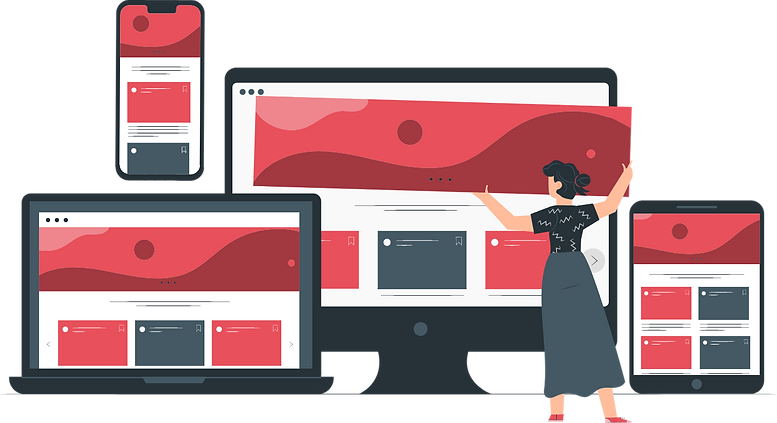
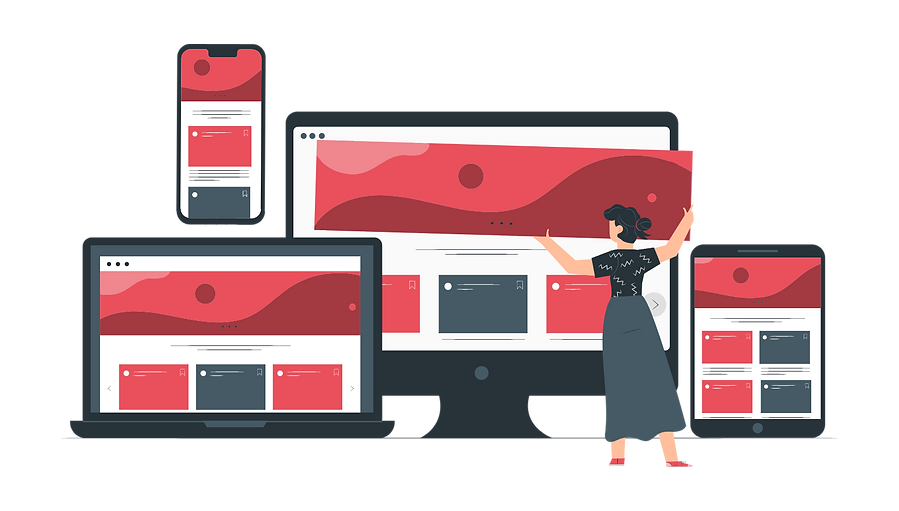
refactor: Updated Web Programming service page with full images and info

diff --git a/front/reyesandfriends.cl/src/pages/services/WebProgramming/WebProgramming.tsx b/front/reyesandfriends.cl/src/pages/services/WebProgramming/WebProgramming.tsx
@@ -1,4 +1,4 @@
-import { Globe, Gem } from "lucide-react";
+import { Globe, Gem, Ban, Download } from "lucide-react";
 import { Link } from "react-router";
 
 const WebProgramming = () => {
@@ -21,7 +21,6 @@ const WebProgramming = () => {
                             src="/img/services/WebProgramming/logo.png"
                             alt="Programación Web"
                             className="max-w-full h-auto"
-                            style={{ filter: "drop-shadow(0 8px 24px rgba(0,0,0,0.5))" }}
                         />
                     </div>
                     <div className="max-w-2xl text-white mx-auto md:mx-0 md:pl-12 lg:pl-24 flex flex-col items-center md:items-start">
@@ -56,7 +55,7 @@ const WebProgramming = () => {
                             <div className="md:w-1/2 w-full flex items-center justify-center">
                                 <img
                                     src="/img/services/WebProgramming/responsive.png"
-                                    alt="Desarrollo Responsive"
+                                    alt="Ilustración de diseño responsivo"
                                     className="max-h-[350px] w-auto object-contain"
                                 />
                             </div>
@@ -80,21 +79,21 @@ const WebProgramming = () => {
                                 </p>
                             </div>
 
-                            <div className="md:w-1/2 w-full flex">
-                                <img
-                                    src="/img/services/WebProgramming/responsive-demo.jpg"
-                                    alt="Desarrollo Responsive"
-                                    className="object-cover w-full h-full min-h-[260px] max-h-[340px]"
-                                />
+                            <div className="md:w-1/2 w-full flex items-center justify-center">
+                                <div className="relative w-32 h-32 flex items-center justify-center">
+                                    <Download className="w-20 h-20 text-white" />
+                                    <Ban className="w-32 h-32 text-red-500 absolute top-0 left-0" />
+                                </div>
                             </div>
+                            
                         </div>
 
                         <div className="flex flex-col md:flex-row items-stretch gap-0 rounded-lg overflow-hidden shadow-lg bg-black">
 
                             <div className="md:w-1/2 w-full flex items-center justify-center">
                                 <img
-                                    src="/img/services/WebProgramming/seo.png"
-                                    alt="Optimización SEO"
+                                    src="/img/services/WebProgramming/SEO.png"
+                                    alt="Un gráfico de SEO en 3D"
                                     className="max-h-[350px] w-auto object-contain"
                                 />
                             </div>
@@ -119,11 +118,11 @@ const WebProgramming = () => {
                                 </p>
                             </div>
 
-                            <div className="md:w-1/2 w-full flex">
+                            <div className="md:w-1/2 w-full flex items-center justify-center">
                                 <img
-                                    src="/img/services/WebProgramming/responsive-demo.jpg"
-                                    alt="Desarrollo Responsive"
-                                    className="object-cover w-full h-full min-h-[260px] max-h-[340px]"
+                                    src="/img/services/WebProgramming/suit-image.png"
+                                    alt="Un traje elegante como tu empresa"
+                                    className="object-contain max-h-[150px] w-auto"
                                 />
                             </div>
                         </div>
